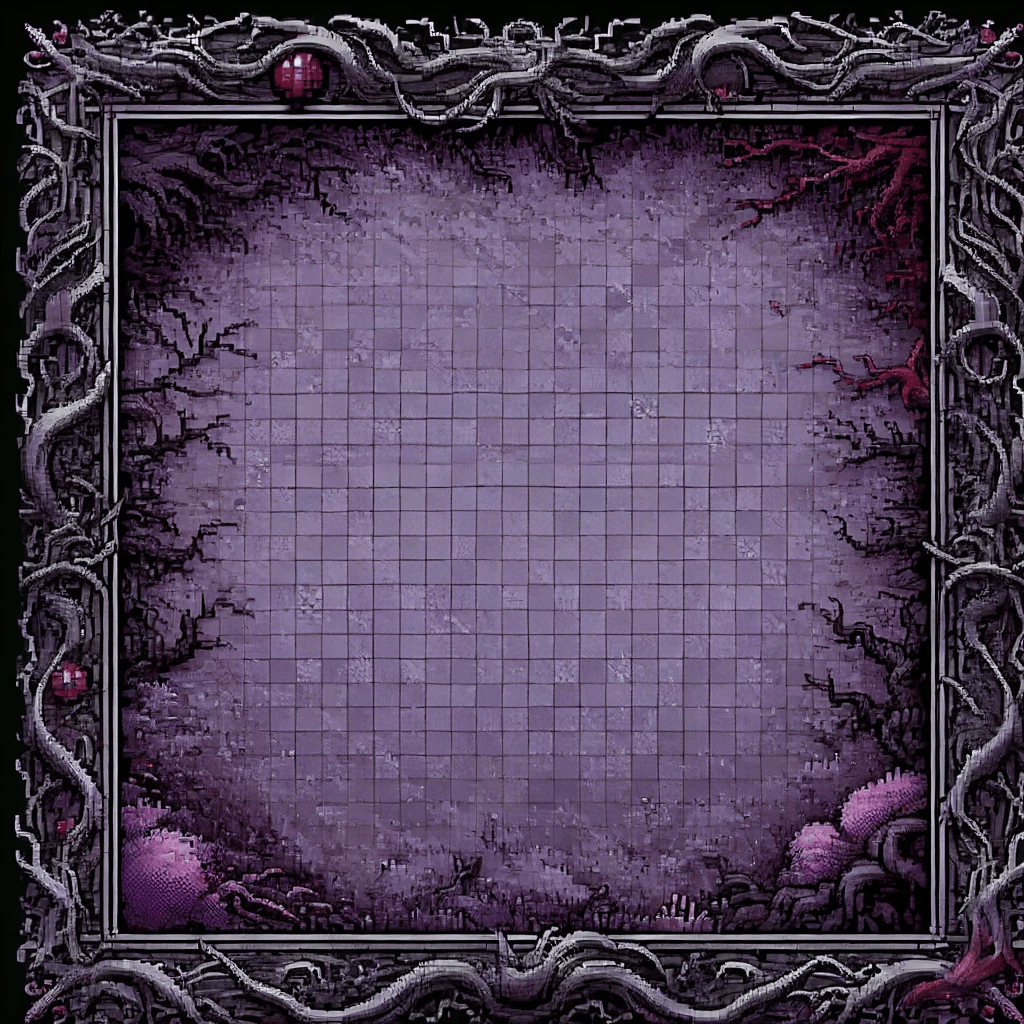
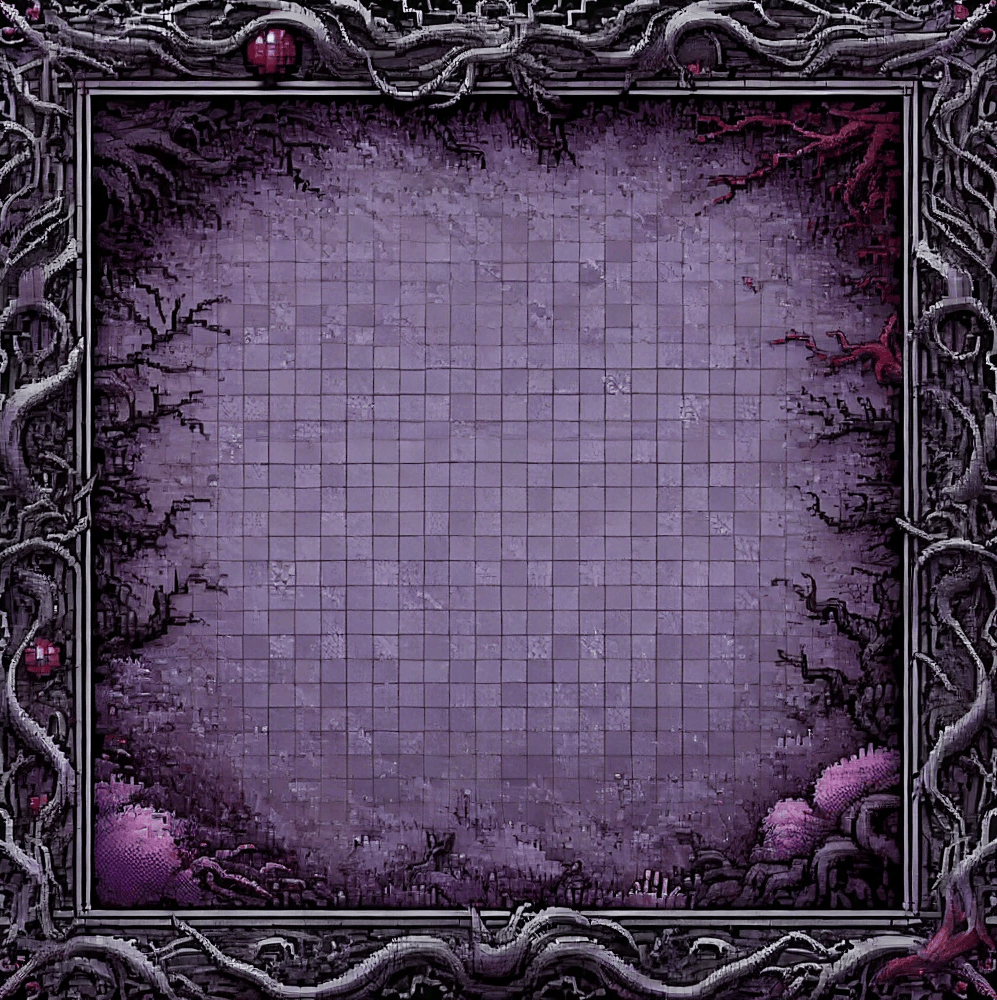
feat: matrix 10 x 10 and borders already doesn't have matrix

diff --git a/StrategoClient/StrategoApp/View/Game.xaml b/StrategoClient/StrategoApp/View/Game.xaml
@@ -36,12 +36,13 @@
             </TextBlock>
         </Border>
 
-        <Grid Grid.Column="2">
-            <Image Source="/StrategoApp;component/Assets/Images/Board4.png" Stretch="Fill" />
-            <ItemsControl ItemsSource="{Binding Board}">
+        <Grid Grid.Column="2" HorizontalAlignment="Center" VerticalAlignment="Center">
+            <Image Source="/StrategoApp;component/Assets/Images/Board.png" Stretch="Fill" />
+
+            <ItemsControl ItemsSource="{Binding Board}" Margin="0" MaxWidth="700" MaxHeight="700" RenderTransformOrigin="0.5,0.5">
                 <ItemsControl.ItemsPanel>
                     <ItemsPanelTemplate>
-                        <UniformGrid Rows="12" Columns="12"/>
+                        <UniformGrid Rows="10" Columns="10" HorizontalAlignment="Center" VerticalAlignment="Center"/>
                     </ItemsPanelTemplate>
                 </ItemsControl.ItemsPanel>
                 <ItemsControl.ItemTemplate>
@@ -49,11 +50,9 @@
                         <Button Background="Transparent" BorderThickness="1" BorderBrush="Black" 
                                 Click="OnCellClicked">
                             <Image Source="{Binding OccupiedPieceImage, Converter={StaticResource NullToDefaultImageConverter}}" 
-                                    Visibility="{Binding IsOccupied, Converter={StaticResource BoolToVisibilityConverter}}" />
+                                   Visibility="{Binding IsOccupied, Converter={StaticResource BoolToVisibilityConverter}}" />
                         </Button>
-
                     </DataTemplate>
-
                 </ItemsControl.ItemTemplate>
             </ItemsControl>
         </Grid>

diff --git a/StrategoClient/StrategoApp/ViewModel/GameViewModel.cs b/StrategoClient/StrategoApp/ViewModel/GameViewModel.cs
@@ -39,14 +39,6 @@ namespace StrategoApp.ViewModel
 
         public GameViewModel(MainWindowViewModel mainWindowViewModel, ObservableCollection<Piece> availablePieces)
         {
-            for (int i = 0; i < 12; i++)
-            {
-                invalidPositions.Add((0, i));
-                invalidPositions.Add((11, i));
-                invalidPositions.Add((i, 0));
-                invalidPositions.Add((i, 11));
-            }
-
             invalidPositions.Add((5, 3));
             invalidPositions.Add((5, 4));
             invalidPositions.Add((6, 3));
@@ -160,9 +152,9 @@ namespace StrategoApp.ViewModel
 
         private void InitializeBoard()
         {
-            for (int row = 0; row < 12; row++)
+            for (int row = 0; row < 10; row++)
             {
-                for (int col = 0; col < 12; col++)
+                for (int col = 0; col < 10; col++)
                 {
                     Board.Add(new Cell { Row = row, Column = col });
                 }
@@ -171,7 +163,7 @@ namespace StrategoApp.ViewModel
 
         private void InitializePlayerPieces()
         {
-            for (int i = 0; i < 12; i++)
+            for (int i = 0; i < 10; i++)
             {
 
                 PlayerPieces.Add(new Piece
@@ -197,10 +189,10 @@ namespace StrategoApp.ViewModel
         {
             foreach (var position in initialPositions)
             {
-                int adjustedRow = position.InitialX + 7;
-                int adjustedColumn = position.InitialY + 1;
+                int adjustedRow = position.InitialX + 6;
+                int adjustedColumn = position.InitialY;
 
-                if (adjustedRow >= 0 && adjustedRow < 12 && adjustedColumn >= 0 && adjustedColumn < 12)
+                if (adjustedRow >= 0 && adjustedRow < 10 && adjustedColumn >= 0 && adjustedColumn < 10)
                 {
                     var cell = Board.FirstOrDefault(c => c.Row == adjustedRow && c.Column == adjustedColumn);
 
